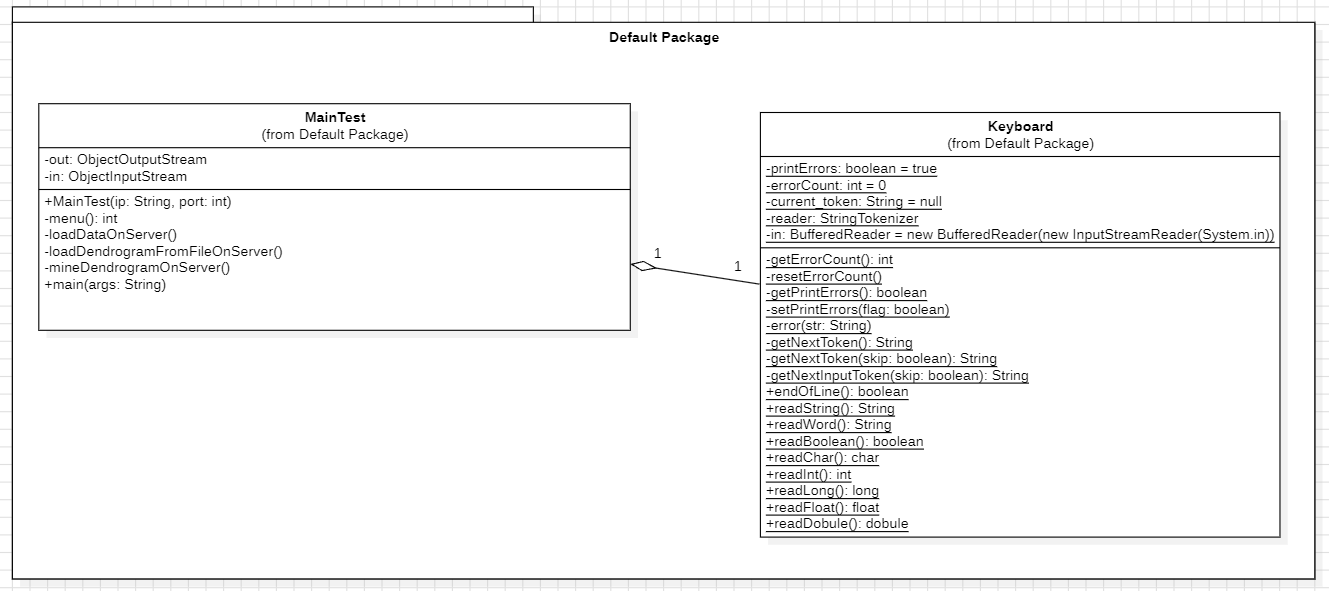
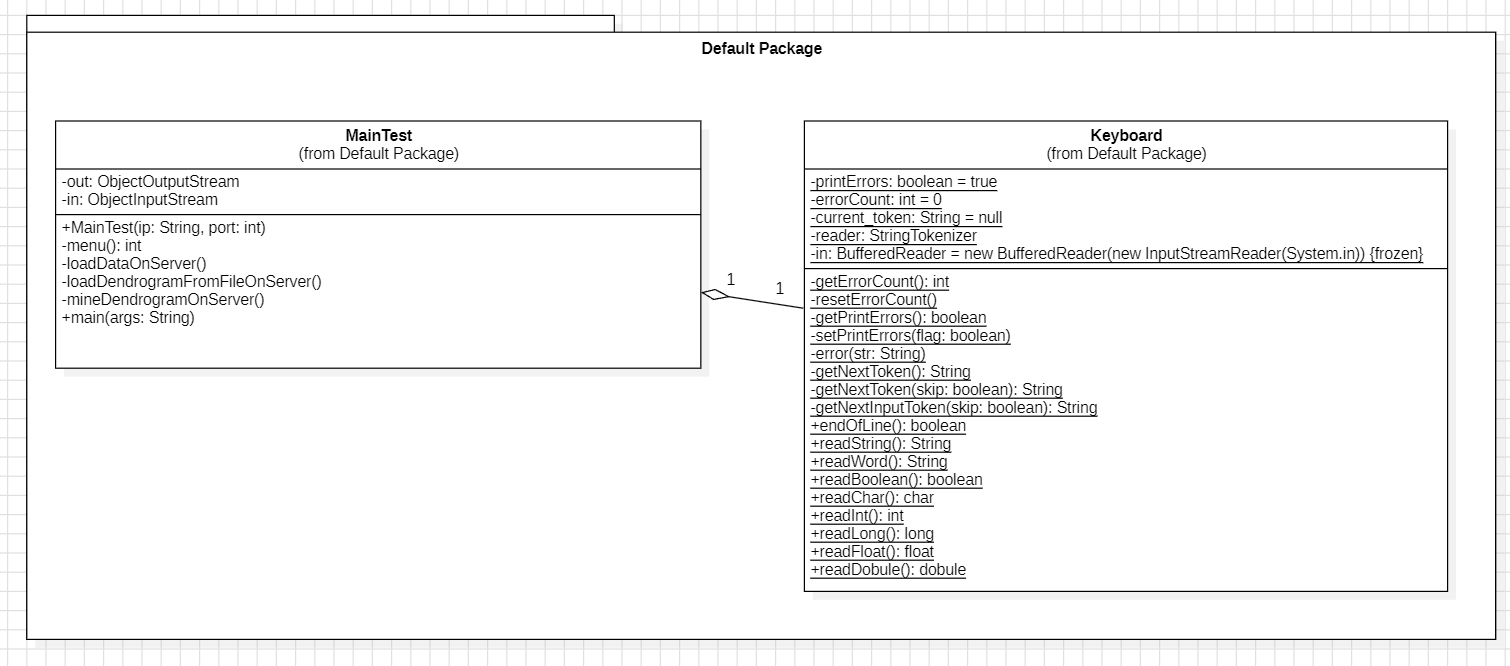
rimossi warnings vari e aggiustato foto uml

Changed region(s): [[0.0, 0.0, 1.0, 1.0]]

diff --git a/H_CLUS_Base/Server/src/database/TableSchema.java b/H_CLUS_Base/Server/src/database/TableSchema.java
@@ -11,14 +11,14 @@ import java.util.List;
 /** Schema di una tabella */
 public class TableSchema {
 	/** Connessione al database */
-	private DbAccess db;
+	private final DbAccess db;
 
 	/** Classe interna che rappresenta un attributo della tabella */
-	public class Column{
+	public static class Column{
 		/** Nome dell'attributo */
-		private String name;
+		private final String name;
 		/** Tipo dell'attributo */
-		private String type;
+		private final String type;
 		/**
 		 * Costruttore
 		 * @param name Nome dell'attributo
@@ -54,7 +54,7 @@ public class TableSchema {
 	/**
 	 * Lista degli attributi della tabella
 	 */
-	List<Column> tableSchema=new ArrayList<Column>();
+	List<Column> tableSchema= new ArrayList<>();
 
 	/**
 	 * Costruttore
@@ -65,7 +65,7 @@ public class TableSchema {
 	 */
 	public TableSchema(DbAccess db, String tableName) throws SQLException, DatabaseConnectionException{
 		this.db=db;
-		HashMap<String,String> mapSQL_JAVATypes=new HashMap<String, String>();
+		HashMap<String,String> mapSQL_JAVATypes= new HashMap<>();
 		//http://java.sun.com/j2se/1.3/docs/guide/jdbc/getstart/mapping.html
 		mapSQL_JAVATypes.put("CHAR","string");
 		mapSQL_JAVATypes.put("VARCHAR","string");
@@ -84,8 +84,8 @@ public class TableSchema {
 	    while (res.next()) {
 	        if(mapSQL_JAVATypes.containsKey(res.getString("TYPE_NAME")))
 	       		 tableSchema.add(new Column(
-	       				 res.getString("COLUMN_NAME"),
-	       				 mapSQL_JAVATypes.get(res.getString("TYPE_NAME")))
+                                 res.getString("COLUMN_NAME"),
+                                 mapSQL_JAVATypes.get(res.getString("TYPE_NAME")))
 	       				 );
 	    }
 	    res.close();

diff --git a/H_CLUS_Base/Server/src/distance/SingleLinkDistance.java b/H_CLUS_Base/Server/src/distance/SingleLinkDistance.java
@@ -5,8 +5,6 @@ import data.Data;
 import data.Example;
 import data.InvalidSizeException;
 
-import java.util.Iterator;
-
 /**
  * classe SingleLinkDistance
  * Implementa il metodo distance dell'interfaccia
@@ -27,16 +25,14 @@ public class SingleLinkDistance implements ClusterDistance {
 	public double distance(Cluster c1, Cluster c2, Data d) throws InvalidSizeException {
 		double min=Double.MAX_VALUE;
 
-		Iterator<Integer> it1 = c1.iterator();
-		while(it1.hasNext()) {
-			Example e1=d.getExample(it1.next());
-			Iterator<Integer> it2 = c2.iterator();
-			while(it2.hasNext()) {
-                double distance = e1.distance(d.getExample(it2.next()));
-                if (distance<min)
-					min=distance;
-			}
-		}
+        for (Integer integer : c1) {
+            Example e1 = d.getExample(integer);
+            for (Integer value : c2) {
+                double distance = e1.distance(d.getExample(value));
+                if (distance < min)
+                    min = distance;
+            }
+        }
 		return min;
 	}
 }

diff --git a/H_CLUS_Base/Server/src/distance/AverageLinkDistance.java b/H_CLUS_Base/Server/src/distance/AverageLinkDistance.java
@@ -5,8 +5,6 @@ import data.Data;
 import data.Example;
 import data.InvalidSizeException;
 
-import java.util.Iterator;
-
 /**
  * Classe AverageLinkDistance
  * Implementa l'interfaccia ClusterDistance per calcolare
@@ -29,12 +27,9 @@ public class AverageLinkDistance implements ClusterDistance {
     public double distance(Cluster c1, Cluster c2, Data d) throws InvalidSizeException {
         double sum = 0.0;
 
-        Iterator<Integer> it1 = c1.iterator();
-        while (it1.hasNext()) {
-            Example e1 = d.getExample(it1.next());
-            Iterator<Integer> it2 = c2.iterator();
-            while (it2.hasNext())
-                sum += e1.distance(d.getExample(it2.next()));
+        for (Integer integer : c1) {
+            Example e1 = d.getExample(integer);
+            for (Integer value : c2) sum += e1.distance(d.getExample(value));
         }
 
         return sum / (c1.getSize() * c2.getSize());

diff --git a/H_CLUS_Base/Server/src/database/TableData.java b/H_CLUS_Base/Server/src/database/TableData.java
@@ -14,7 +14,7 @@ import java.util.List;
  */
 public class TableData {
     /** Connessione al database */
-    private DbAccess db;
+    private final DbAccess db;
 
     /**
      * Inizializza l’attributo db.
@@ -38,8 +38,8 @@ public class TableData {
     public List<Example> getDistinctTransazioni(String table) throws SQLException, EmptySetException, MissingNumberException, DatabaseConnectionException {
         List<Example> transazioni = new ArrayList<>();
         Connection con = db.getConnection();
-        Statement stmt = null;
-        ResultSet rs = null;
+        Statement stmt;
+        ResultSet rs;
         TableSchema schema = new TableSchema(db, table);
 
         stmt = con.createStatement();

diff --git a/H_CLUS_Base/Server/src/clustering/Cluster.java b/H_CLUS_Base/Server/src/clustering/Cluster.java
@@ -123,10 +123,9 @@ public class Cluster implements Iterable<Integer>, Cloneable, Serializable {
 	 */
 	public String toString(Data data) {
 		StringBuilder str = new StringBuilder();
-		Iterator<Integer> it = clusteredData.iterator();
 
-		while (it.hasNext())
-			str.append("<[").append(data.getExample(it.next())).append("]>");
+        for (Integer clusteredDatum : clusteredData)
+            str.append("<[").append(data.getExample(clusteredDatum)).append("]>");
 
 		return str.toString();
 	}

diff --git a/H_CLUS_Base/Client/src/Keyboard.java b/H_CLUS_Base/Client/src/Keyboard.java
@@ -69,7 +69,7 @@ public class Keyboard {
 
 	private static StringTokenizer reader;
 
-	private static BufferedReader in = new BufferedReader(
+	private static final BufferedReader in = new BufferedReader(
 			new InputStreamReader(System.in));
 
 	// -----------------------------------------------------------------
